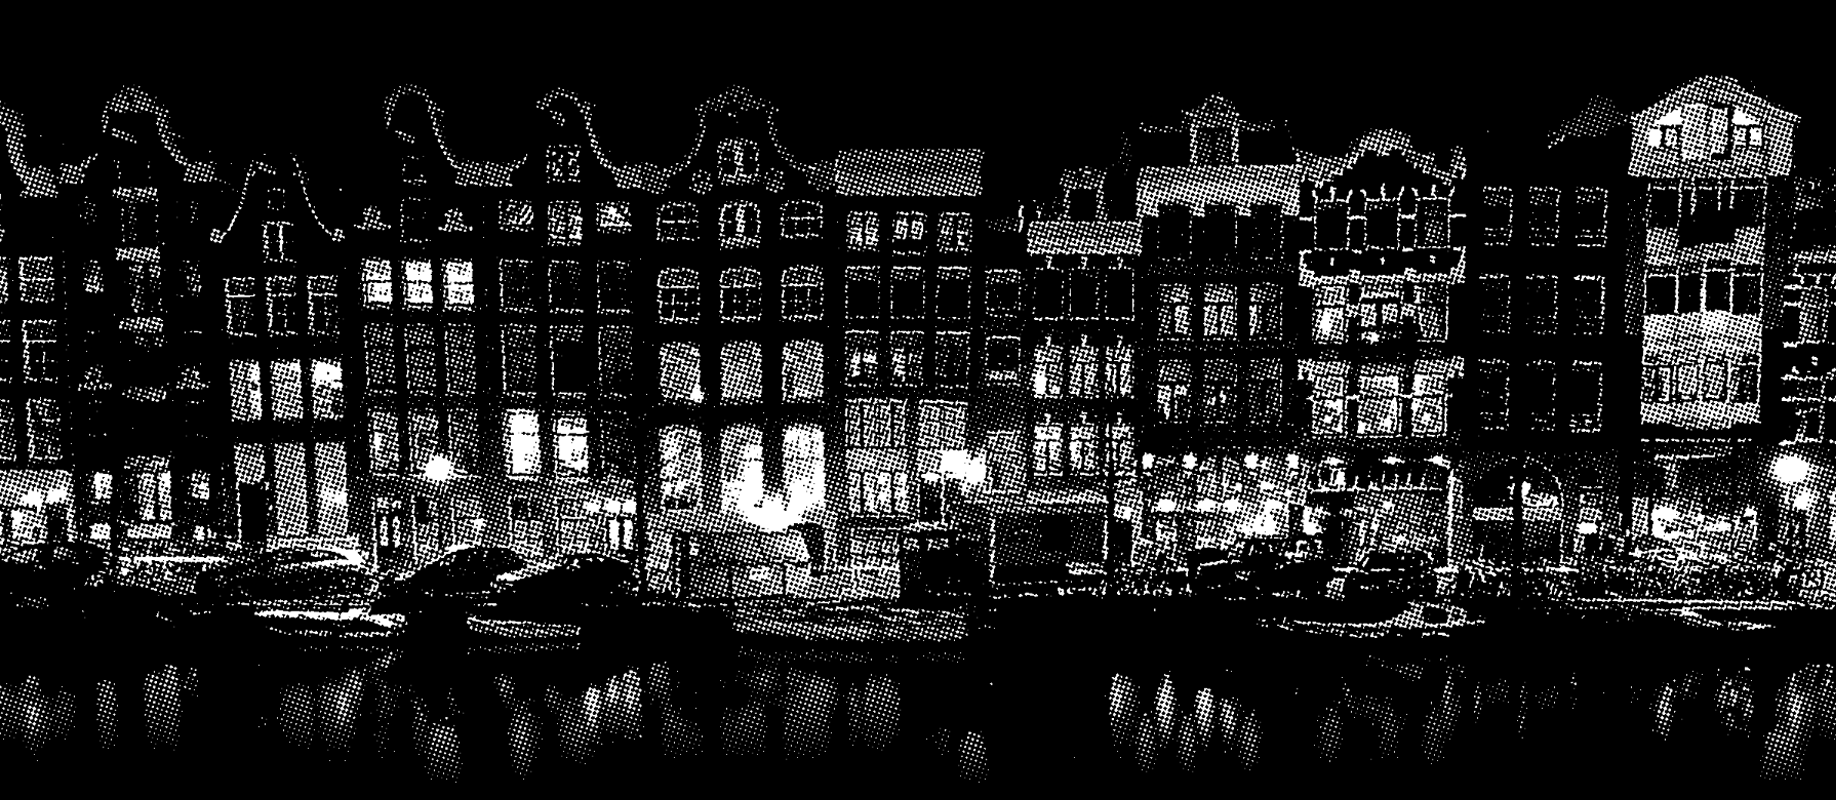
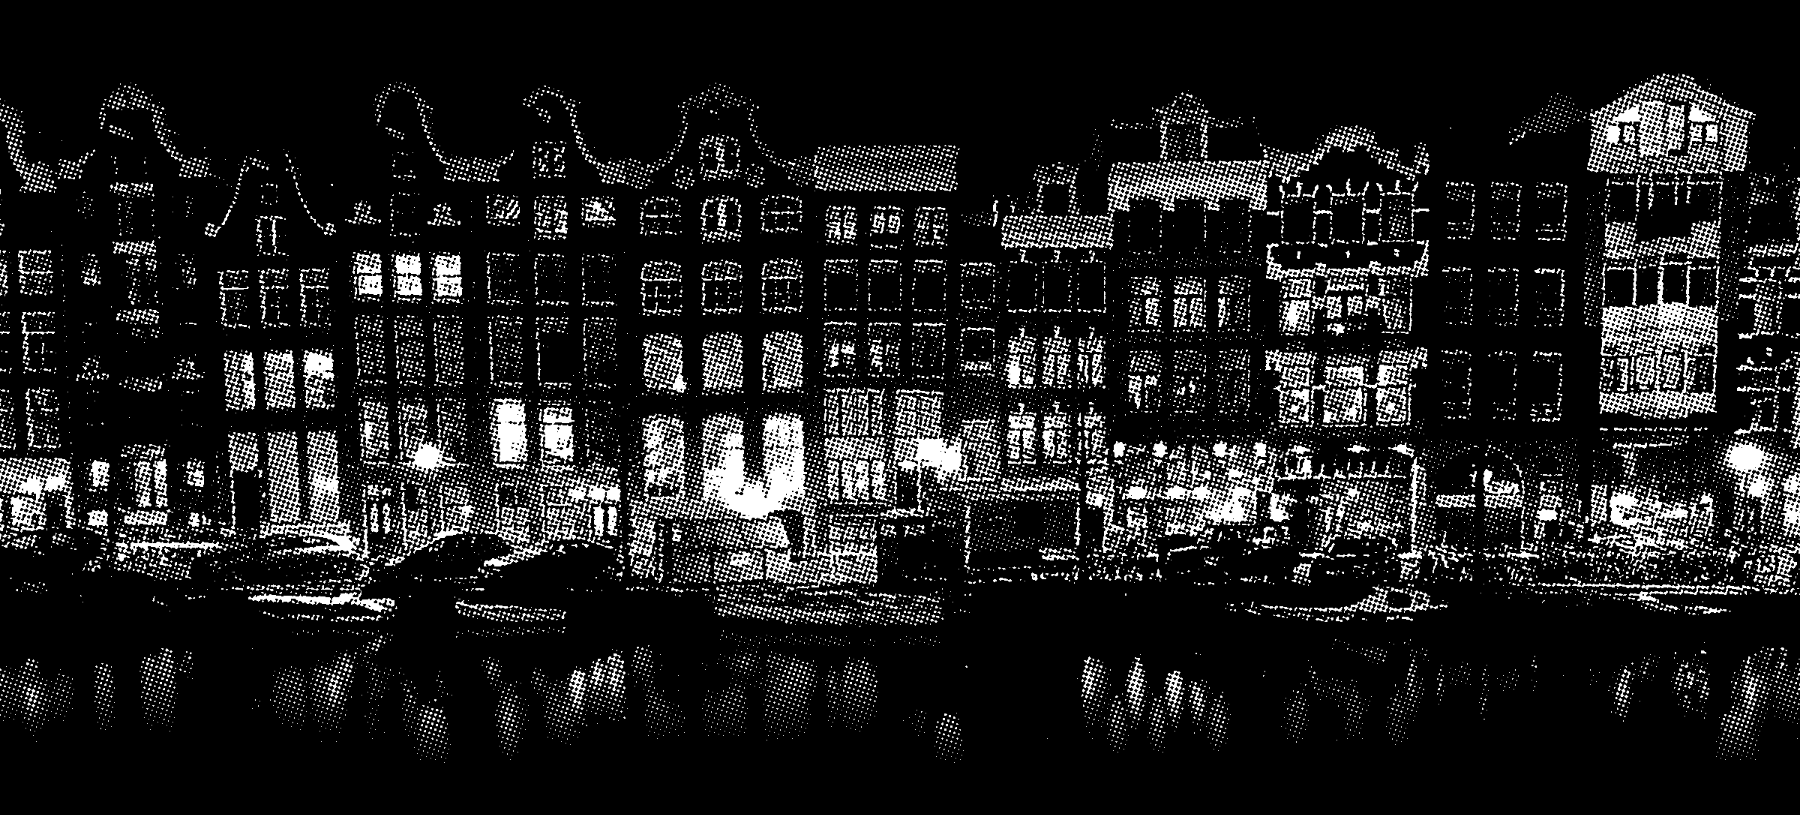
footer img dark lange frontpage probleem

diff --git a/wordpress/wp-content/themes/fccentrum/style.css b/wordpress/wp-content/themes/fccentrum/style.css
@@ -975,6 +975,10 @@ body.home .stories-container{
 	position: relative;
 	margin-bottom: 1.5em;
 	break-inside: avoid;
+	display: list-item;
+}
+.story.teaser:last-child{
+	margin-bottom: 0;
 }
 .story.teaser header a{
 	position: relative;

diff --git a/wordpress/wp-content/themes/fccentrum/footer.php b/wordpress/wp-content/themes/fccentrum/footer.php
@@ -5,8 +5,13 @@ $text_color = 'foreground-' . get_field('tekstkleur', $terms[0]);
 ?>
 			<footer id="site-footer" class="header-footer-group <?php echo $bg_color; ?> <?php echo $text_color; ?>">
 					<div class="footer-graphic">
-						<img src="<?php echo get_template_directory_uri(); ?>/img/footer-kerk.png" alt="Echt Amsterdams!" />
+						<?php if($bg_color == 'background-zwart'){ ?>
+							<img src="<?php echo get_template_directory_uri(); ?>/img/footer-img-dark.png" alt="Echt Amsterdams!" />
+						<?php }else{ ?>
+							<img src="<?php echo get_template_directory_uri(); ?>/img/footer-kerk.png" alt="Echt Amsterdams!" />
+						<?php } ?>
 					</div>
+
 					<div class="footer-content">
 						<div class="footer-logo">
 							<a href="/" title="Naar de homepage"><img src="<?php echo get_template_directory_uri(); ?>/img/footer_logo.svg" alt="footer logo FC Centrum" /></a>
